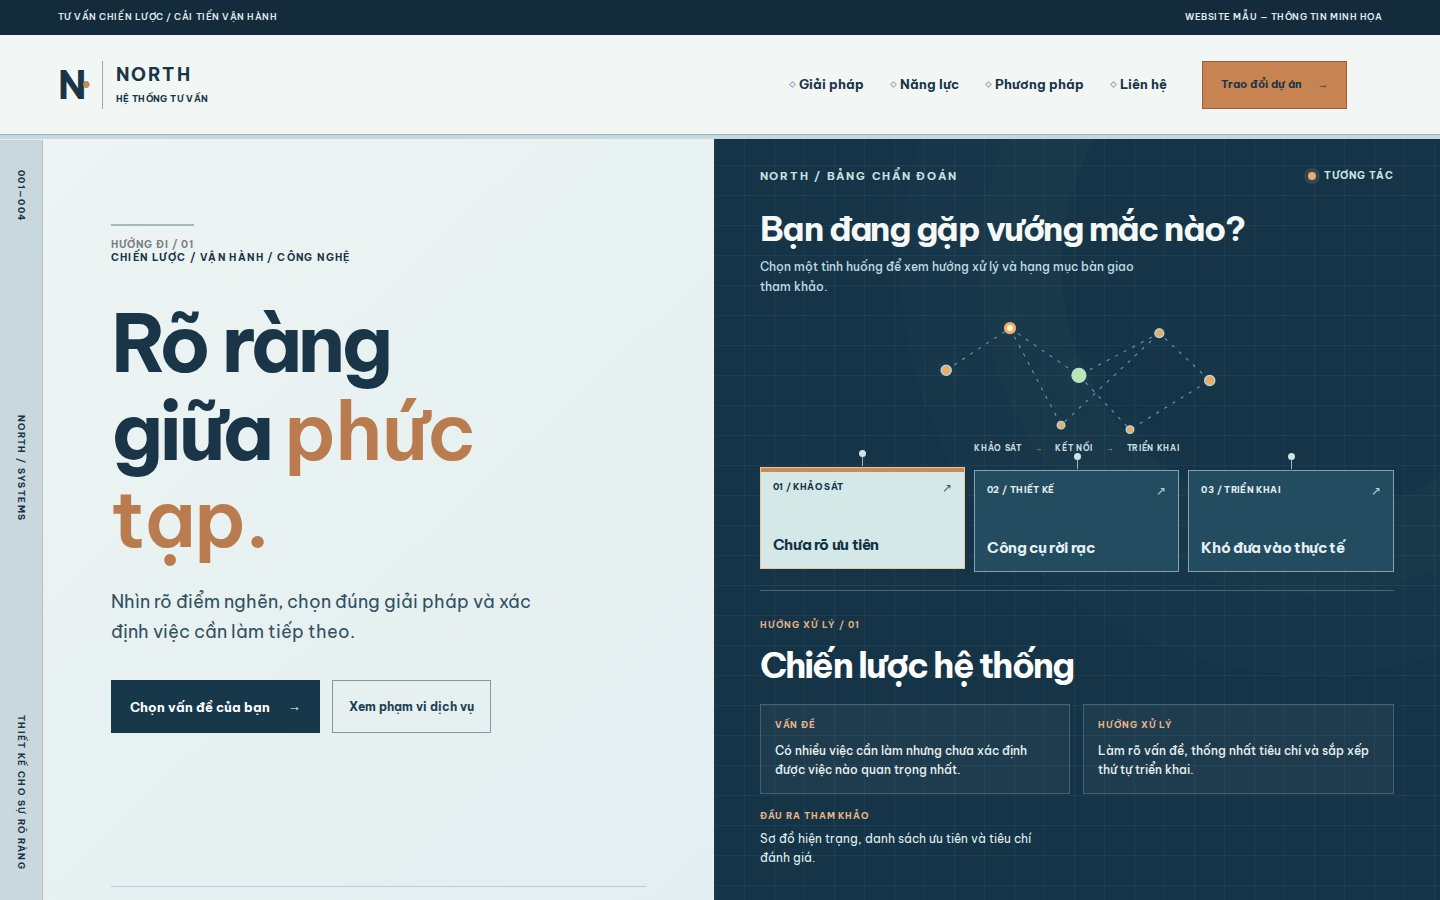
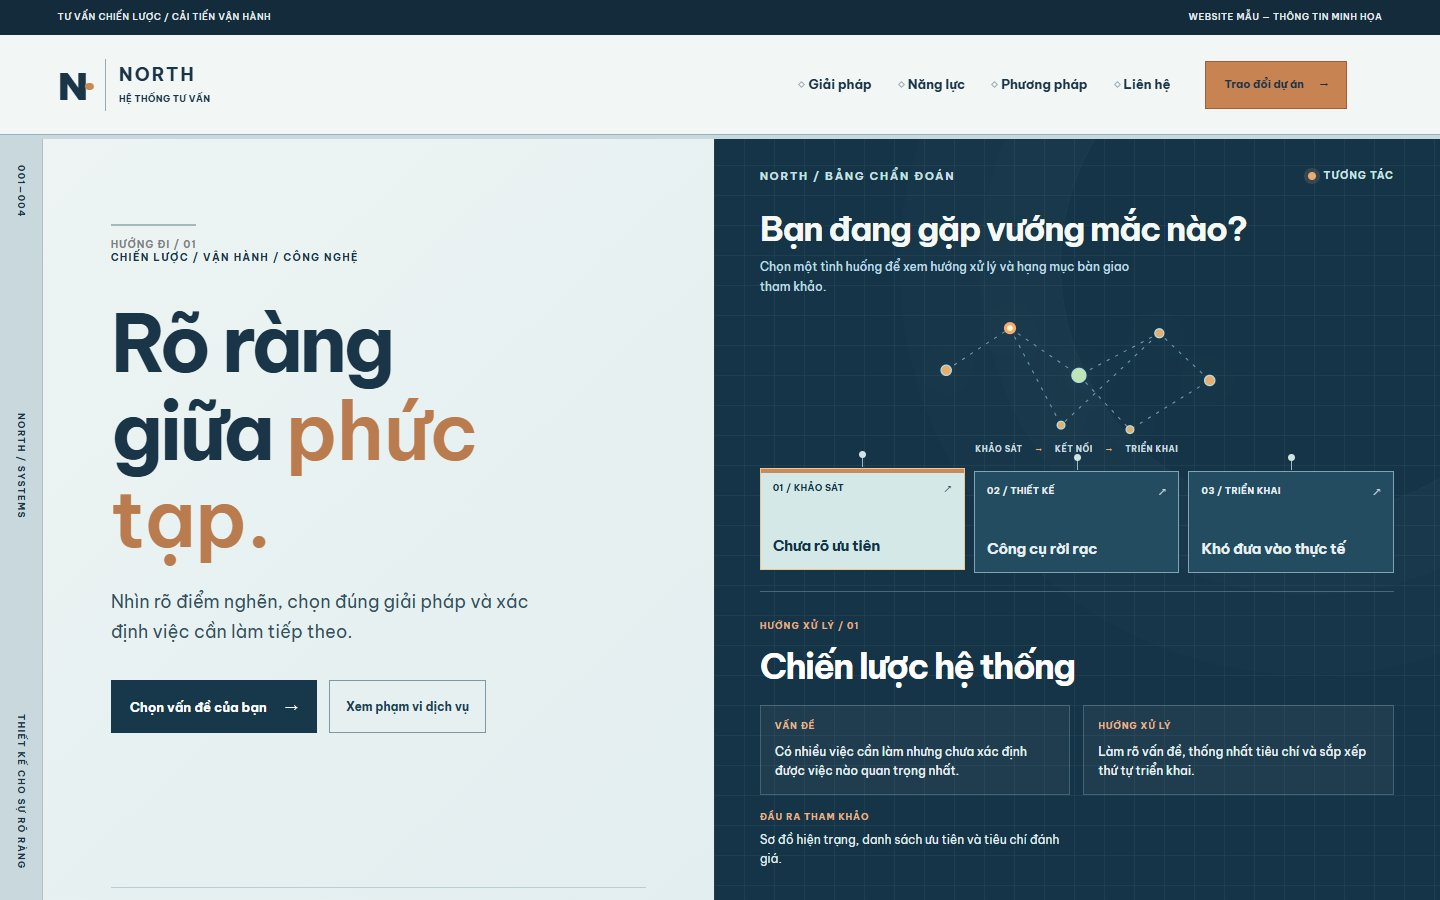
fix(north): seamless sticky header rail and purposeful three-step impact

diff --git a/templates/modern-corporate/src/components/Site.tsx b/templates/modern-corporate/src/components/Site.tsx
@@ -43,12 +43,32 @@ export function Site({section="home",itemIndex=1,basePath="",assetBase=""}:{sect
  <main className={s.content}>
  {section==="home"&&<>
   <section className={s.banner} id="north-diagnostic"><div className={s.bannerCopy}><span className={s.eyebrow}>CHIẾN LƯỢC / VẬN HÀNH / CÔNG NGHỆ</span><h1>Rõ ràng<br/>giữa <em>phức tạp.</em></h1><p>Nhìn rõ điểm nghẽn, chọn đúng giải pháp và xác định việc cần làm tiếp theo.</p><div className={s.heroActions}><a className={s.primary} href="#north-diagnostic-tool">Chọn vấn đề của bạn <span aria-hidden="true">→</span></a><Link className={s.heroSecondary} href={go("/work")}>Xem phạm vi dịch vụ</Link></div><div className={s.bannerMeta}><b>03</b><span>NHÓM VẤN ĐỀ THƯỜNG GẶP<br/>CHỌN ĐỂ XEM CÁCH XỬ LÝ</span></div></div><div className={s.diagram} id="north-diagnostic-tool" data-north-ambient data-focus={active} role="region" aria-label="Bảng chẩn đoán vận hành NORTH"><div className={s.diagnosticHead}><span className={s.gridCaption}>NORTH / BẢNG CHẨN ĐOÁN</span><span className={s.liveSignal}><i aria-hidden="true"/>TƯƠNG TÁC</span></div><h2 className={s.diagnosticTitle}>Bạn đang gặp vướng mắc nào?</h2><p className={s.diagnosticIntro}>Chọn một tình huống để xem hướng xử lý và hạng mục bàn giao tham khảo.</p><div className={s.systemOrbit} aria-hidden="true"><svg viewBox="0 0 470 210" preserveAspectRatio="xMidYMid meet"><path d="M30 96 L130 30 L238 104 L364 38 L443 112 M130 30 L210 182 L364 38 M238 104 L318 189 L443 112" fill="none" stroke="currentColor" strokeWidth="1.6" strokeDasharray="5 10"/><circle cx="30" cy="96" r="8"/><circle cx="130" cy="30" r="7"/><circle cx="238" cy="104" r="11"/><circle cx="364" cy="38" r="7"/><circle cx="443" cy="112" r="8"/><circle cx="210" cy="182" r="6"/><circle cx="318" cy="189" r="6"/></svg><span>KHẢO SÁT <b>→</b> KẾT NỐI <b>→</b> TRIỂN KHAI</span></div><div className={s.diagramNodes} role="group" aria-label="Chọn vấn đề đang gặp">{services.map((x,i)=><button type="button" aria-controls="north-diagnostic-result" aria-label={"Chọn vấn đề: "+x.shortIssue} aria-pressed={active===i} onClick={()=>setActive(i)} key={x.tag}><small>0{i+1} / {x.tag}</small><strong>{x.shortIssue}</strong><span aria-hidden="true">↗</span></button>)}</div><div className={s.diagramContent} id="north-diagnostic-result" aria-live="polite" aria-atomic="true"><small>HƯỚNG XỬ LÝ / 0{active+1}</small><h3>{services[active].name}</h3><div className={s.beforeAfter}><div><span>VẤN ĐỀ</span><p>{services[active].problem}</p></div><div><span>HƯỚNG XỬ LÝ</span><p>{services[active].solution}</p></div></div><div className={s.diagnosticDeliver}><span>ĐẦU RA THAM KHẢO</span><p>{services[active].deliver}</p></div><Link href={go("/work/"+(active+1))}>Xem chi tiết dịch vụ <span aria-hidden="true">→</span></Link></div><div className={s.diagramFoot}>BẢN MINH HỌA QUY TRÌNH <span>KHÔNG PHẢI TƯ VẤN TỰ ĐỘNG</span></div></div></section>
-  <section className={s.impact} data-north-scene><header><small>01 / TƯ DUY VẬN HÀNH</small><h2>Ít nút thắt.<br/>Rõ hướng đi.</h2></header><div className={s.impactBody}>
-    <div className={s.impactNarrative} aria-live="polite"><span>TRẠNG THÁI 0{impactStep+1} / 03</span><p>{["Bắt đầu bằng những câu hỏi đúng, dữ liệu có thể kiểm tra và vấn đề thực sự cần giải quyết.","Kết nối từng bộ phận vào một luồng vận hành rõ trách nhiệm và có thể theo dõi.","Đưa giải pháp vào thử nghiệm, đo lường kết quả rồi tiếp tục cải tiến."][impactStep]}</p></div>
-    <div className={s.impactJourney} role="group" aria-label="Khám phá ba bước vận hành">{[["01","Khảo sát"],["02","Kết nối"],["03","Triển khai"]].map(([n,label],i)=><button key={n} type="button" aria-pressed={impactStep===i} onClick={()=>setImpactStep(i)}><span>{n}</span><strong>{label}</strong></button>)}</div>
-    <div className={s.impactMap} aria-hidden="true"><div className={s.mapTrack} data-step={impactStep}><span/><span/><span/></div></div>
-  </div></section>
-  <section className={s.capabilities} data-north-scene><header><small>02 / NĂNG LỰC CỐT LÕI</small><h2>Ba năng lực.<br/>Một hệ thống.</h2></header><div>{services.map((x,i)=><Link href={go("/work/"+(i+1))} key={x.name}><small>0{i+1}</small><strong>{x.name}</strong><p>{x.problem}</p><span aria-hidden="true">↳</span></Link>)}</div></section>
+  <section className={s.impact} data-north-scene>
+    <div className={s.impactLead}>
+      <small>01 / PHƯƠNG PHÁP LÀM VIỆC</small>
+      <h2>Ít nút thắt.<br/>Rõ hướng đi.</h2>
+      <p>Một quy trình không cần phức tạp để hiệu quả. Bắt đầu từ vấn đề thực tế, thống nhất cách làm, rồi kiểm chứng kết quả.</p>
+      <div className={s.impactPrinciples} aria-label="Ba nguyên tắc làm việc">
+        <div><span>01</span><strong>Hiểu việc đang vướng.</strong></div>
+        <div><span>02</span><strong>Rõ ai chịu trách nhiệm.</strong></div>
+        <div><span>03</span><strong>Thử nghiệm và đo kết quả.</strong></div>
+      </div>
+    </div>
+    <div className={s.impactBody}>
+      <div className={s.impactPanelTop}><span>NORTH / QUY TRÌNH BA BƯỚC</span><span>CHỌN ĐỂ XEM</span></div>
+      <div className={s.impactJourney} role="group" aria-label="Khám phá ba bước vận hành">
+        {[["01","Khảo sát"],["02","Kết nối"],["03","Triển khai"]].map(([n,label],i)=><button key={n} type="button" aria-controls="north-impact-result" aria-pressed={impactStep===i} onClick={()=>setImpactStep(i)}><span>{n}</span><strong>{label}</strong></button>)}
+      </div>
+      <div className={s.impactNarrative} id="north-impact-result" aria-live="polite" aria-atomic="true">
+        <span>BƯỚC 0{impactStep+1} / 03</span>
+        <h3>{["Xác định vấn đề","Thống nhất cách làm","Kiểm tra hiệu quả"][impactStep]}</h3>
+        <p>{["Tìm hiểu công việc hiện tại, ghi rõ điểm nghẽn và thu thập thông tin cần kiểm tra.","Làm rõ vai trò từng bộ phận, các điểm bàn giao và thứ tự ưu tiên công việc.","Thử nghiệm phương án, theo dõi kết quả và điều chỉnh trước khi mở rộng."][impactStep]}</p>
+        <div className={s.impactDeliverable}><small>ĐẦU RA CỦA BƯỚC NÀY</small><p>{["Sơ đồ hiện trạng và danh sách vấn đề cần xử lý.","Bản phân công, luồng công việc và tiêu chí hoàn thành.","Kết quả thử nghiệm cùng các điều chỉnh được đề xuất."][impactStep]}</p></div>
+      </div>
+      <div className={s.impactMap} aria-hidden="true"><div className={s.mapTrack} data-step={impactStep}><span/><span/><span/></div><small>0{impactStep+1} / 03</small></div>
+    </div>
+  </section>
+    <section className={s.capabilities} data-north-scene><header><small>02 / NĂNG LỰC CỐT LÕI</small><h2>Ba năng lực.<br/>Một hệ thống.</h2></header><div>{services.map((x,i)=><Link href={go("/work/"+(i+1))} key={x.name}><small>0{i+1}</small><strong>{x.name}</strong><p>{x.problem}</p><span aria-hidden="true">↳</span></Link>)}</div></section>
   <section className={s.proof} data-north-scene><img src={images[1]} alt="Minh họa không gian và hệ thống vận hành"/><div><small>PHƯƠNG PHÁP CÓ THỂ ÁP DỤNG</small><h2>Quyết định phức tạp cần khung tư duy rõ ràng.</h2><p>Website minh họa phương pháp làm việc. Các năng lực trình bày ở đây là nội dung mẫu, không phải hồ sơ năng lực của khách hàng thật.</p><Link href={go("/about")}>Nguyên tắc làm việc →</Link></div></section>
  </>}
  {section==="work"&&<section className={s.directory}><div className={s.pageHead}><small>DANH MỤC NĂNG LỰC / 01—03</small><h1>Năng lực<br/>có hệ thống.</h1><p>Chọn một năng lực để xem vấn đề, phương pháp và đầu ra minh họa.</p></div><div className={s.directoryGrid}>{services.map((x,i)=><Link href={go("/work/"+(i+1))} key={x.name}><small>NORTH / 0{i+1}</small><img src={images[i%images.length]} alt={"Minh họa "+x.name}/><h2>{x.name}</h2><p>{x.problem}</p></Link>)}</div></section>}

diff --git a/templates/modern-corporate/src/components/North.module.css b/templates/modern-corporate/src/components/North.module.css
@@ -231,3 +231,119 @@
 @media(prefers-reduced-motion:reduce){
  .north .heroActions .primary,.north .heroSecondary,.north .diagramNodes button,.north .systemOrbit circle,.north .inquiry form button{transition:none!important;animation:none!important}
 }
+
+
+/* NORTH continuity / timeline refinement: approved localized bugfix. */
+.north{--north-utility-height:35px;--north-header-height:100px}
+.north .utility{
+  position:sticky;top:0;z-index:90;
+  height:var(--north-utility-height);min-height:var(--north-utility-height);
+  box-sizing:border-box;display:flex;align-items:center;
+}
+.north .globalHead{
+  position:sticky;top:var(--north-utility-height);z-index:89;
+  height:var(--north-header-height);min-height:var(--north-header-height);
+  box-sizing:border-box;
+}
+.north .rail{
+  position:fixed;top:calc(var(--north-utility-height) + var(--north-header-height));
+  bottom:0;left:0;width:43px;height:auto;z-index:38;
+  background:#c8d8dc;
+}
+.north .impact{
+  display:grid;grid-template-columns:minmax(0,.88fr) minmax(0,1.12fr);
+  gap:clamp(28px,5vw,75px);padding:clamp(70px,8vw,112px) 7vw;
+  align-items:center;background:#e6eff0;
+}
+.north .impactLead{min-width:0;align-self:center}
+.north .impactLead>small{display:block;color:#38596a;font:800 10px/1.5 "Be Vietnam Pro",sans-serif;letter-spacing:.13em}
+.north .impactLead h2{font:750 clamp(42px,4.4vw,74px)/1.12 "Be Vietnam Pro",sans-serif;letter-spacing:-.055em;margin:24px 0;max-width:13ch;text-wrap:balance;color:#173247}
+.north .impactLead>p{font-size:clamp(15px,1.25vw,18px);line-height:1.75;max-width:40ch;color:#36566a;margin:0}
+.north .impactPrinciples{display:grid;gap:0;margin-top:38px;border-top:1px solid #a1b9c1;max-width:430px}
+.north .impactPrinciples>div{display:flex;align-items:baseline;gap:20px;min-height:54px;padding:14px 0;border-bottom:1px solid #a1b9c1;color:#1b3c51}
+.north .impactPrinciples span{font:750 11px/1.4 "Be Vietnam Pro",sans-serif;color:#a87452}
+.north .impactPrinciples strong{font:650 14px/1.5 "Be Vietnam Pro",sans-serif}
+.north .impactBody{
+  display:flex;flex-direction:column;gap:0;min-width:0;
+  padding:clamp(22px,3.3vw,44px);
+  background:linear-gradient(155deg,#193d52,#143245 82%);
+  color:#f4f8f7;border:1px solid #33576a;
+  box-shadow:14px 16px 0 #c9dadf;
+}
+.north .impactBody::after{content:none!important}
+.north .impactPanelTop{display:flex;justify-content:space-between;align-items:center;gap:14px;border-bottom:1px solid #7596a470;padding-bottom:19px}
+.north .impactPanelTop span{font:750 10px/1.5 "Be Vietnam Pro",sans-serif;letter-spacing:.09em;color:#bed7da}
+.north .impactPanelTop span:last-child{color:#e9ae7f}
+.north .impactJourney{
+  display:grid;grid-template-columns:repeat(3,minmax(0,1fr));gap:9px;
+  margin:23px 0 30px;position:relative;z-index:1;
+}
+.north .impactJourney button{
+  display:flex;flex-direction:column;align-items:flex-start;justify-content:space-between;
+  min-width:0;min-height:102px;padding:15px 12px;gap:12px;
+  background:#234c61;border:1px solid #799ead;color:#f1f7f7;text-align:left;
+  cursor:pointer;transition:background .2s,transform .2s,border-color .2s;
+}
+.north .impactJourney button:hover{background:#305f75;transform:translateY(-3px)}
+.north .impactJourney button[aria-pressed="true"]{background:#d8e9e9;color:#13384d;border-color:#edc398;box-shadow:inset 0 4px #d49a6d;transform:none}
+.north .impactJourney button span{font:800 11px/1.5 "Be Vietnam Pro",sans-serif}
+.north .impactJourney button strong{font:750 clamp(12px,1.2vw,16px)/1.4 "Be Vietnam Pro",sans-serif}
+.north .impactNarrative{min-width:0;position:relative;z-index:1}
+.north .impactNarrative>span{font:800 10px/1.5 "Be Vietnam Pro",sans-serif;letter-spacing:.09em;color:#e6b38b;margin-bottom:12px}
+.north .impactNarrative h3{font:750 clamp(26px,3vw,42px)/1.2 "Be Vietnam Pro",sans-serif;letter-spacing:-.04em;margin:0 0 10px;color:#fff}
+.north .impactNarrative p{font:450 clamp(14px,1.18vw,17px)/1.7 "Be Vietnam Pro",sans-serif;min-height:0;max-width:45ch;color:#e2ecef;margin:0}
+.north .impactDeliverable{margin-top:24px;padding:17px 19px;background:#ffffff10;border-left:3px solid #dc9d71}
+.north .impactDeliverable small{display:block;font:800 10px/1.5 "Be Vietnam Pro",sans-serif;letter-spacing:.09em;color:#f3c092}
+.north .impactDeliverable p{margin:7px 0 0;font:550 13px/1.65 "Be Vietnam Pro",sans-serif;color:#edf5f5}
+.north .impactMap{
+  display:flex;align-items:center;gap:20px;
+  width:100%;height:auto;min-height:0;padding-top:27px;margin-top:22px;
+  border:none;border-top:1px solid #7495a27a;background:none;
+  overflow:visible;
+}
+.north .mapTrack{height:2px;width:auto;flex:1;background:#658595}
+.north .mapTrack:before{height:2px;background:#e4a774}
+.north .mapTrack span{width:13px;height:13px;border:3px solid #18384b;background:#8badb9;box-shadow:0 0 0 1px #9fbcc4}
+.north .mapTrack[data-step="1"] span:nth-child(-n+2),.north .mapTrack[data-step="2"] span{background:#e9ad7b;transform:scale(1.05)}
+.north .impactMap small{font:800 10px/1.5 "Be Vietnam Pro",sans-serif;letter-spacing:.08em;color:#e6b38b;white-space:nowrap}
+@media(max-width:850px){
+  .north{--north-header-height:74px}
+  .north .impact{grid-template-columns:1fr;gap:33px;padding:68px 6vw}
+  .north .impactLead h2{font-size:clamp(44px,8.4vw,70px)}
+  .north .impactPrinciples{margin-top:22px}
+  .north .impactBody{padding:clamp(20px,5vw,33px)}
+}
+@media(max-width:600px){
+  .north{--north-utility-height:35px;--north-header-height:69px}
+  .north .impact{padding:60px 6vw;gap:27px}
+  .north .impactLead h2{font-size:clamp(39px,10.4vw,55px);margin:19px 0}
+  .north .impactLead>p{font-size:15px}
+  .north .impactPrinciples>div{min-height:44px;padding:10px 0}
+  .north .impactPrinciples strong{font-size:13px}
+  .north .impactBody{box-shadow:8px 9px 0 #c9dadf;padding:20px 17px}
+  .north .impactPanelTop span{font-size:9px}
+  .north .impactJourney{gap:7px;margin:20px 0 24px}
+  .north .impactJourney button{min-height:85px;padding:12px 9px}
+  .north .impactJourney button strong{font-size:12px}
+  .north .impactNarrative h3{font-size:28px}
+  .north .impactNarrative p{font-size:14px}
+  .north .impactDeliverable{margin-top:17px;padding:14px}
+}
+@media(max-width:350px){
+  .north .impactJourney button{padding:9px 6px}
+  .north .impactJourney button strong{font-size:11px}
+  .north .impactPanelTop span:last-child{font-size:8px}
+}
+@media(prefers-reduced-motion:reduce){
+  .north .impactJourney button,.north .mapTrack:before,.north .mapTrack span{transition:none!important;animation:none!important}
+}
+
+/* Mobile preserves scrolling room: rail is hidden, so no sticky header is necessary. */
+@media(max-width:850px){
+ .north .utility{position:relative;top:auto}
+ .north .globalHead{position:relative;top:auto}
+ .north .rail{display:none}
+}
+.north .impact{scroll-margin-top:calc(var(--north-utility-height) + var(--north-header-height) + 16px)}
+
+@media(max-width:850px){.north .utility{z-index:40}.north .globalHead{z-index:45}}
